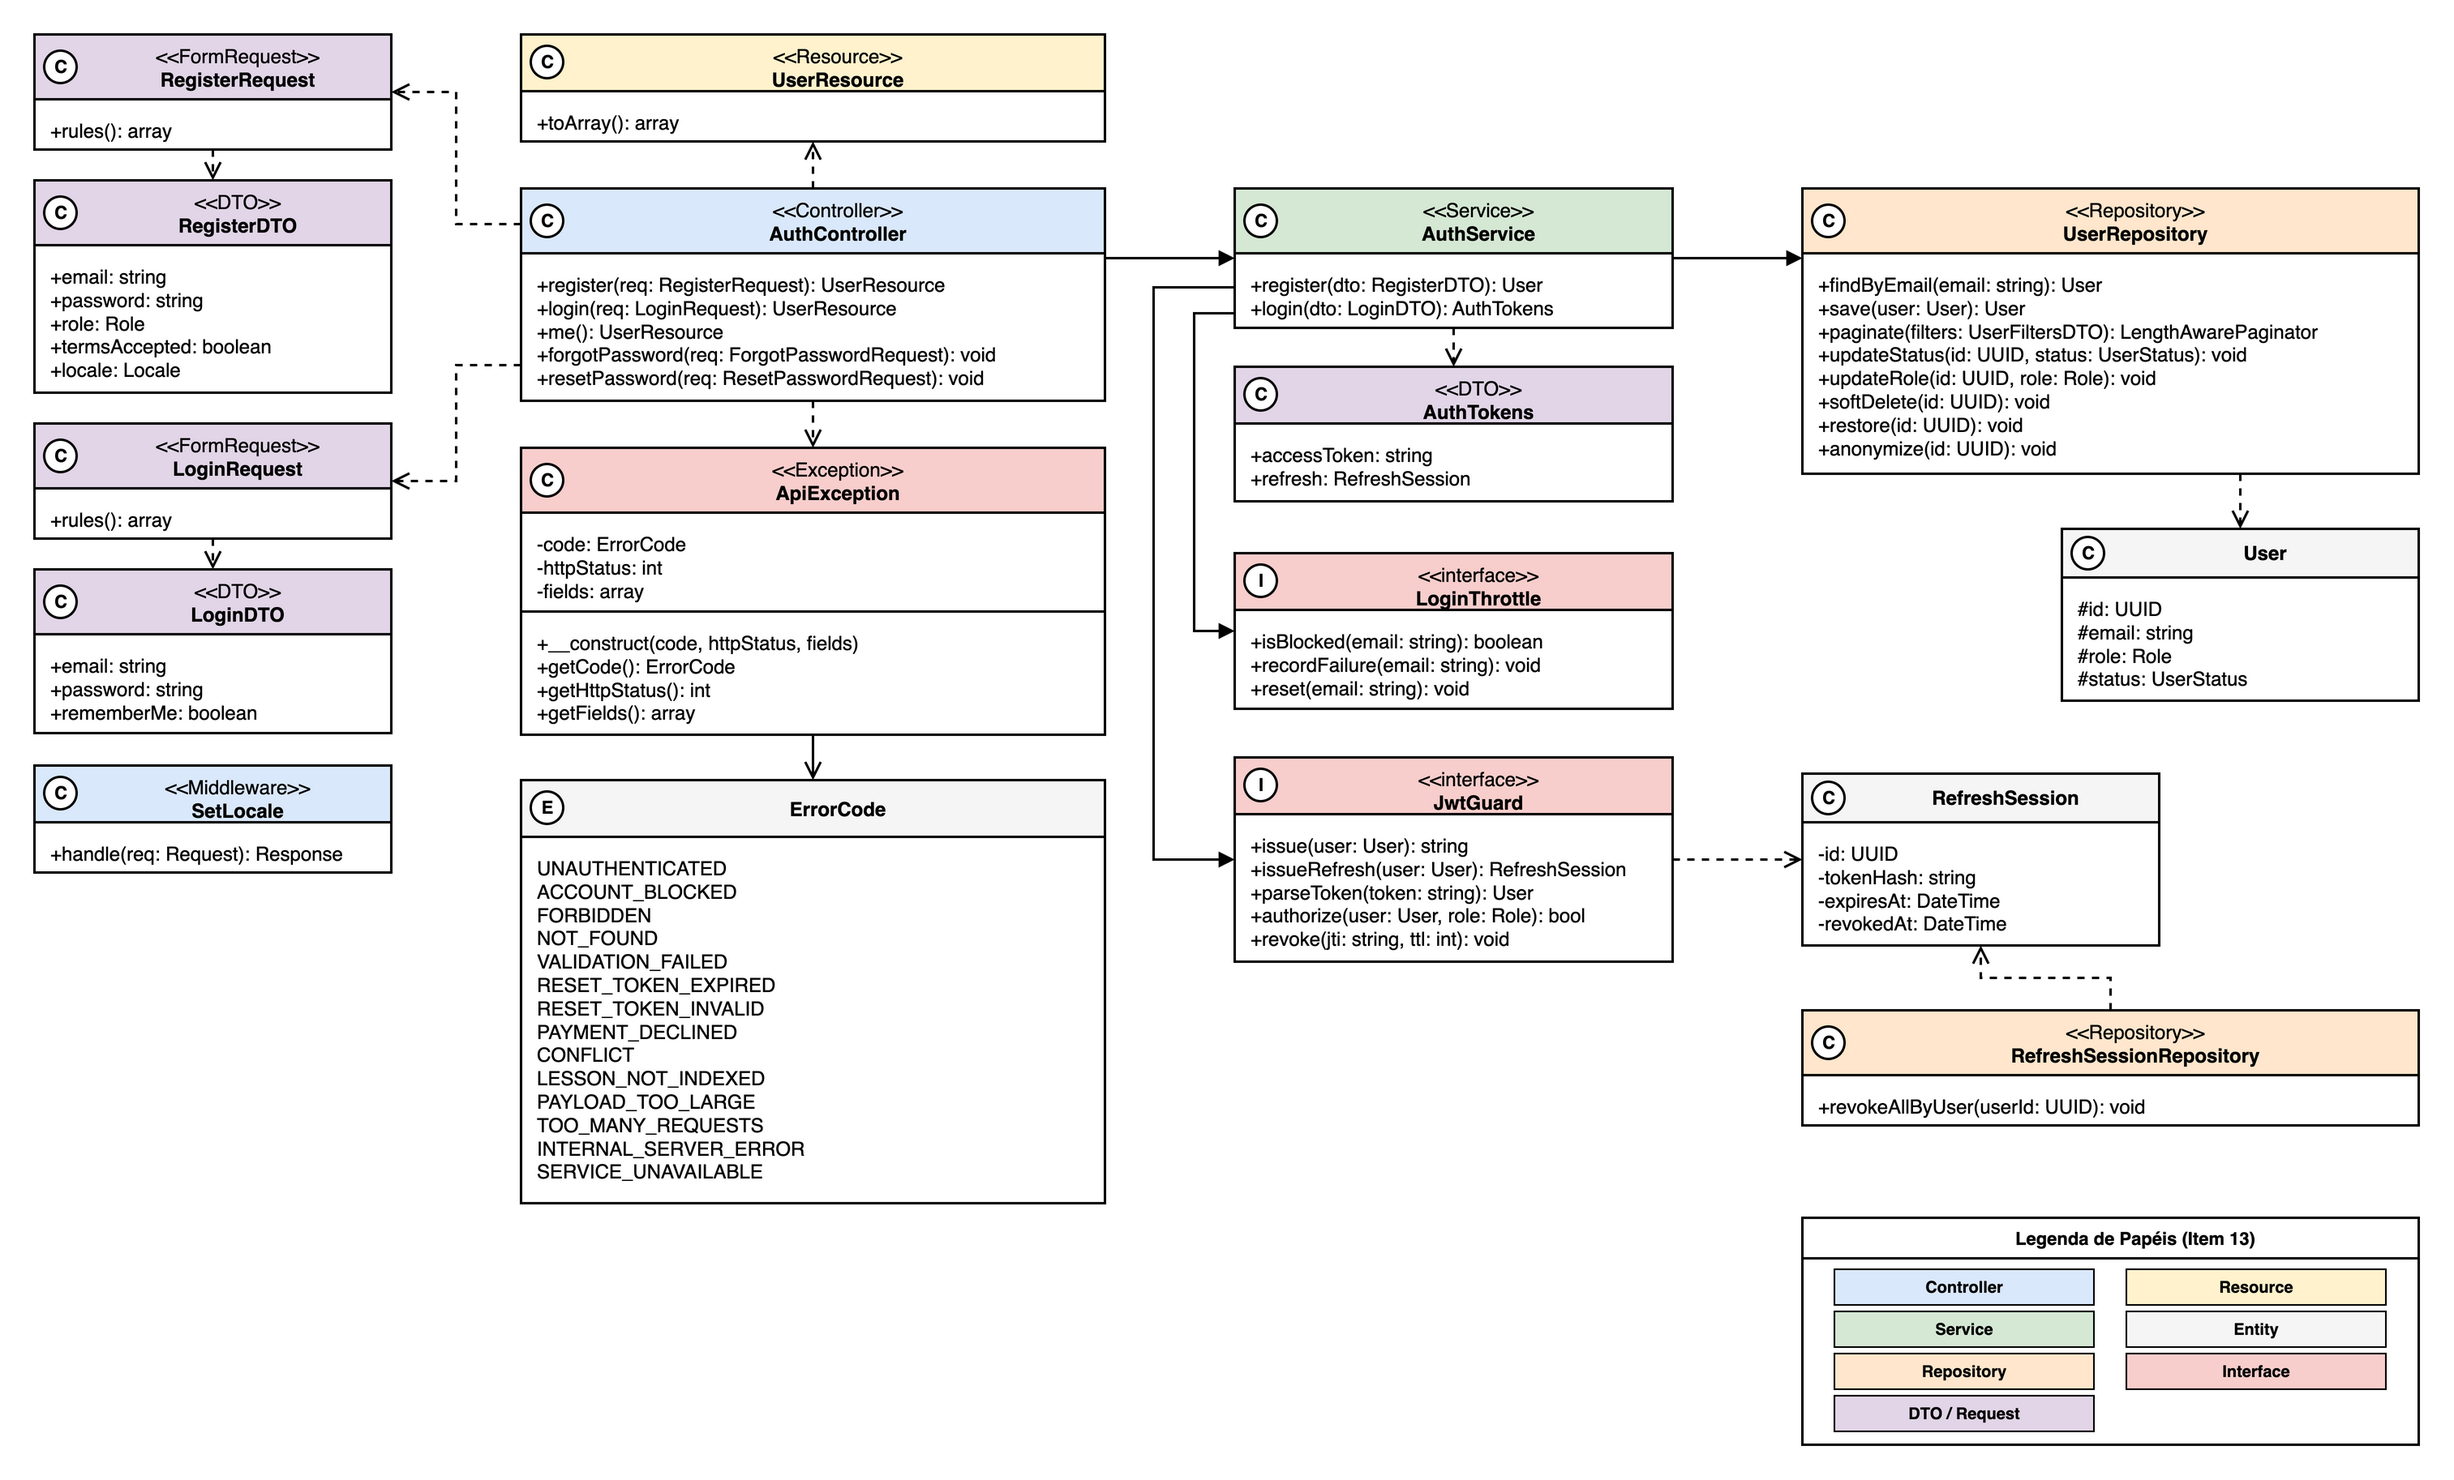
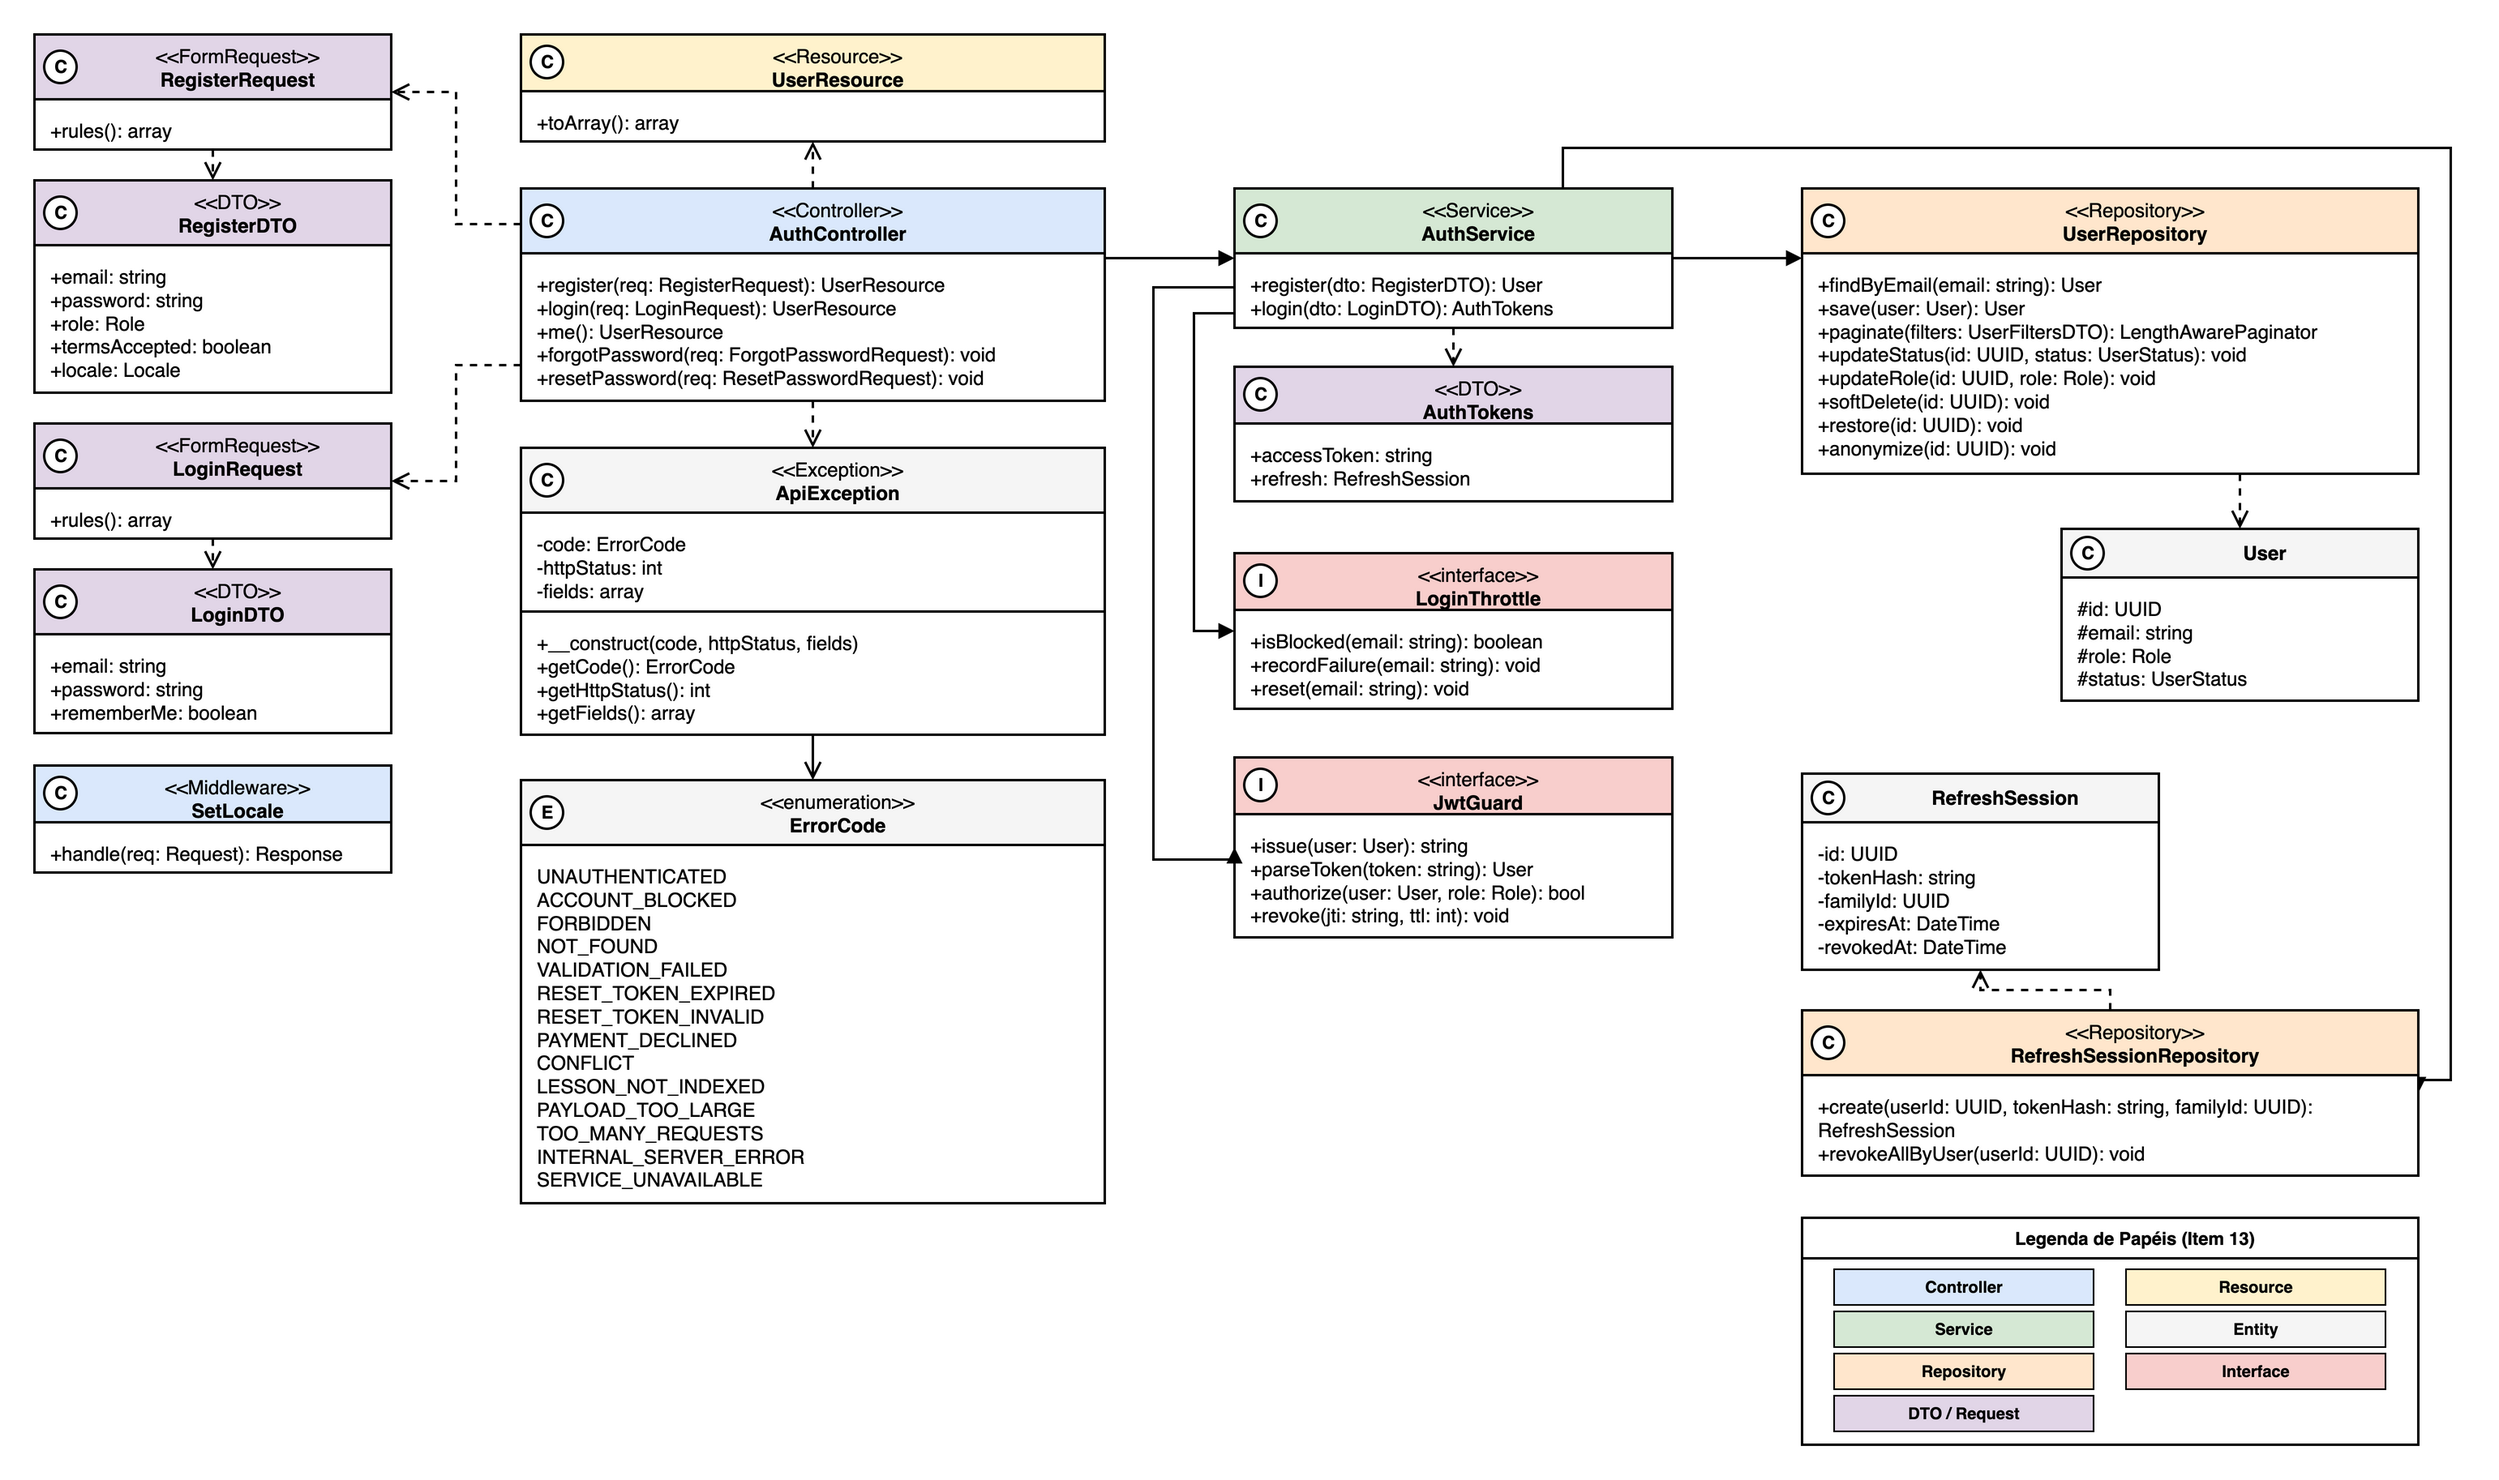
fix(classes-area-a): align login class diagram with refresh session flow
The login diagram had JwtGuard creating refresh sessions (issueRefresh),
but the design says JwtGuard only issues and validates tokens and the
session is persisted through the repository. Moved the creation to
RefreshSessionRepository.create(userId, tokenHash, familyId), added
familyId to RefreshSession, and drew the AuthService dependency.

ErrorCode now uses the single <<enumeration>> stereotype with the E
circle, matching the other headers. ApiException takes the core class
color (C circle) instead of the interface color, because it is a class,
not an interface.

(cherry picked from commit 7803dfdfc45a15318ef35d418e7107648d2e10f2)

diff --git a/especificacao/13-diagrama-de-classes/area-a.md b/especificacao/13-diagrama-de-classes/area-a.md
@@ -1,6 +1,6 @@
 ## 1. Área A – Acesso e conta
 
-Classes dos casos de uso UC005, UC008, UC011, UC012, UC013, UC017 e UC018, estruturadas em duas perspectivas do mesmo modelo. A convenção visual segue a padronização arquitetural com círculos tipados C/A/I/E nos cabeçalhos e cores de preenchimento por papel: Controller (`#DAE8FC`), Service (`#D5E8D4`), Repository (`#FFE6CC`), DTO/Request (`#E1D5E7`), Resource (`#FFF2CC`), Entity (`#F5F5F5`) e Interface/Exceção (`#F8CECC`).
+Classes dos casos de uso UC005, UC008, UC011, UC012, UC013, UC017 e UC018, estruturadas em duas perspectivas do mesmo modelo. A convenção visual segue a padronização arquitetural com círculos tipados C/A/I/E nos cabeçalhos e cores de preenchimento por papel: Controller (`#DAE8FC`), Service (`#D5E8D4`), Repository (`#FFE6CC`), DTO/Request (`#E1D5E7`), Resource (`#FFF2CC`), Entity e Exceção (`#F5F5F5`) e Interface (`#F8CECC`).
 
 Na perspectiva negocial, `User` é uma classe abstrata com atributos de auditoria e ciclo de vida (`deletedAt: DateTime`, `anonymizedAt: DateTime`), especializada nas subclasses `Student`, `Instructor` e `Administrator`. O `Instructor` possui exatamente um `InstructorProfile` (criado automaticamente ao promover o usuário a instrutor, com headline e biografia vazios, TC236). O `User` agrega endereços (`Address`), tokens de redefinição de senha (`PasswordResetToken`) e sessões de atualização de token (`RefreshSession`). A classe armazena enums de preferência (`theme: ThemeType`, `locale: Locale`) e tipos de contato, nunca ids de chaves estrangeiras. Os identificadores e nomes de métodos seguem o inglês; o texto visível ao Usuário fica em arquivos de internacionalização (pt-BR ativo, com en e es preparados, RNF013), resolvido por `User.locale`.
 
@@ -9,7 +9,7 @@ Na perspectiva de implementação, apresentada em três diagramas (cadastro e lo
 1. **Cadastro, login e tratamento transversal de erros**:
    - Os Controllers (`AuthController`) recebem requisições validadas por Form Requests (`RegisterRequest`, `LoginRequest`), que convertem os dados em DTOs e delegam aos Services.
    - O `AuthService` orquestra o registro e autenticação, acionando o `LoginThrottle` (limite de 5 tentativas consecutivas com bloqueio de 15 minutos via Redis, RNF008), o `UserRepository` e o `JwtGuard`.
-   - O `JwtGuard` emite tokens JWT e gerencia sessões de refresh com rotação e detecção de reúso (ADR-0008). O método `revoke(jti: string, ttl: int): void` grava o identificador do token na blocklist do Redis com o tempo de vida restante do JWT para revogação imediata em logout e bloqueio de conta.
+   - O `JwtGuard` emite e valida tokens JWT (`issue`, `parseToken`, `authorize`) e não grava sessões de refresh: o `AuthService` cria a sessão pelo `RefreshSessionRepository.create(userId: UUID, tokenHash: string, familyId: UUID): RefreshSession`, com rotação e detecção de reúso (ADR-0008). O método `revoke(jti: string, ttl: int): void` do `JwtGuard` grava o identificador do token na blocklist do Redis com o tempo de vida restante do JWT para revogação imediata em logout e bloqueio de conta.
    - Para unificar o tratamento de erros sem proliferação de classes de exceção por cenário, a Área A declara o enum transversal `ErrorCode` (com códigos padronizados como `UNAUTHENTICATED`, `ACCOUNT_BLOCKED`, `FORBIDDEN`, `NOT_FOUND`, `VALIDATION_FAILED`, `TOO_MANY_REQUESTS`, etc., conforme TDD seção 3.1) e a classe única `ApiException(code: ErrorCode, httpStatus: int, fields: array = [])`, reutilizados por todos os módulos do monólito.
    - O middleware `SetLocale` define o idioma da requisição com base em `User.locale` ou no cabeçalho `Accept-Language`, e as respostas são envelopadas em `UserResource`.
 
@@ -25,7 +25,7 @@ Na perspectiva de implementação, apresentada em três diagramas (cadastro e lo
      - `updateStatus(id: UUID, status: UserStatus): void`: bloqueio e desbloqueio de contas.
      - `updateRole(id: UUID, role: Role): void`: alteração de papel, instanciando `InstructorProfile` caso o papel passe a instrutor.
      - `softDelete(id: UUID): void` e `restore(id: UUID): void`: exclusão lógica e reativação via `deleted_at` (ADR-0014).
-   - `RefreshSessionRepository.revokeAllByUser(userId: UUID): void` revoga todas as sessões de atualização do usuário, com `revokedAt` preenchido na entidade `RefreshSession`. É chamado no bloqueio, na troca de perfil e na exclusão lógica (D-TC243, UC008 e UC018), junto com a inclusão do `jti` na blocklist do Redis.
+   - `RefreshSessionRepository.create(...)` grava a sessão de refresh no login com «manter conectado» (UC005) e `RefreshSessionRepository.revokeAllByUser(userId: UUID): void` revoga todas as sessões de atualização do usuário, com `revokedAt` preenchido na entidade `RefreshSession`. É chamado no bloqueio, na troca de perfil e na exclusão lógica (D-TC243, UC008 e UC018), junto com a inclusão do `jti` na blocklist do Redis.
      - `anonymize(id: UUID): void`: anonimização irreversível dos dados pessoais para atendimento à LGPD (UC018 R-2), preenchendo `anonymized_at`, ofuscando nome/documento/telefone e liberando o email no índice único parcial.
 
 ![Classes negociais da Área A](../diagramas/13-classes-area-a-negocial.png)
